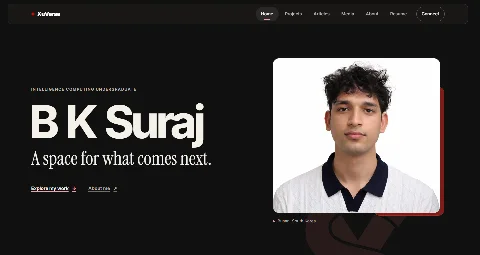
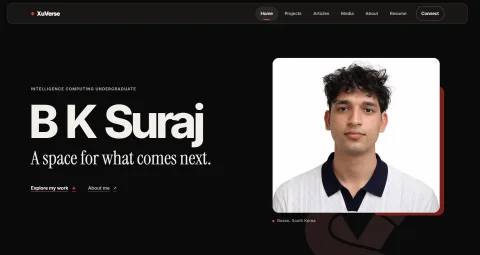
Finish the XuVerse palette and contact footer

diff --git a/assets/css/editorial.css b/assets/css/editorial.css
@@ -1,10 +1,10 @@
 :root {
-    --xu-ink: #101010;
-    --xu-charcoal: #1c1b1a;
-    --xu-paper: #f4f0e9;
-    --xu-red: #e10600;
+    --xu-ink: #0a0a0b;
+    --xu-charcoal: #151517;
+    --xu-paper: #f2efe9;
+    --xu-red: #e53832;
     --xu-red-ink: #af211b;
-    --xu-pink: #f49aaf;
+    --xu-pink: #ff4f91;
     --xu-muted: #b8b3ac;
     --xu-paper-muted: #56514b;
     --xu-line: #393631;
@@ -304,6 +304,13 @@ body.xu-public .navbar .nav-links > .nav-action:hover { border-color: var(--xu-p
     background: #181716;
 }
 
+.xu-public .site-footer.xu-footer-contact {
+    background: #631b1a;
+    border-color: #93413d;
+}
+
+.xu-footer-contact .xu-footer-bottom { border-top-color: #9a534e; }
+.xu-footer-contact :is(.xu-footer-socials a, .xu-footer-bottom p) { color: #eee1db; }
 .xu-footer-inner { width: min(var(--xu-width), 100% - clamp(34px, 9vw, 114px)); margin-inline: auto; padding-block: clamp(28px, 4vw, 54px) 18px; }
 .xu-footer-inner.xu-footer-compact { padding-block: 12px; }
 .xu-footer-compact .xu-footer-bottom { border-top: 0; padding-top: 0; }

diff --git a/includes/footer.php b/includes/footer.php
@@ -22,7 +22,7 @@ $footerSocials = [
     <div class="container footer-core"><p class="footer-copy">&copy; <?= gmdate('Y') ?> <?= e(xuverse_content('site')['site_title']) ?></p></div>
 </footer>
 <?php else: ?>
-<footer class="site-footer">
+<footer class="site-footer<?= $showFooterContact ? ' xu-footer-contact' : '' ?>">
     <div class="xu-footer-inner<?= $showFooterContact ? '' : ' xu-footer-compact' ?>">
         <?php if ($showFooterContact): ?>
         <div class="xu-footer-top">

diff --git a/includes/header.php b/includes/header.php
@@ -104,7 +104,7 @@ content="<?= e(xuverse_excerpt($pageDescription, 155)) ?>">
 
 <meta name="robots" content="<?= e($robots) ?>">
 <meta name="xuverse-revision" content="<?= e(xuverse_checkout_revision()) ?>">
-<meta name="theme-color" content="#101010">
+<meta name="theme-color" content="#0a0a0b">
 <link rel="canonical" href="<?= e($canonicalUrl) ?>">
 
 <meta property="og:type" content="<?= e($pageType) ?>">

diff --git a/DEPLOYMENT.md b/DEPLOYMENT.md
@@ -1,5 +1,11 @@
 # Deploying XuVerse without losing content
 
+## Editorial redesign verification
+
+Local acceptance used the existing XAMPP Apache and MySQL installation. `scripts/editorial-qa.cjs` checks the public routes and Media modes at 14 widths from 320 to 3440 px. It also checks internal links, missing routes, keyboard navigation, collection search, video activation, and downloads of the résumé and all four writing PDFs. The script saves screenshots and a JSON report in ignored `tmp/editorial-qa/<hostname>/`.
+
+Use `XUVERSE_URL` to select a host and `XUVERSE_EXPECTED_REVISION` to check its release marker against the deployed commit. Run the browser suite after the FTPS pointer switches. The deployment uses the existing free host and shared PHP dependencies.
+
 ## October handoff acceptance — 2026-10-09 (Korea time)
 
 The approved pages, three complete essays, independent research paper, credited ANCHOR cards and selected videos use canonical JSON/Markdown under `content/`. No database migration or SQL import was needed. Historical records and runtime data are retained; public editorial CMS fields explain the single source and are read-only.
